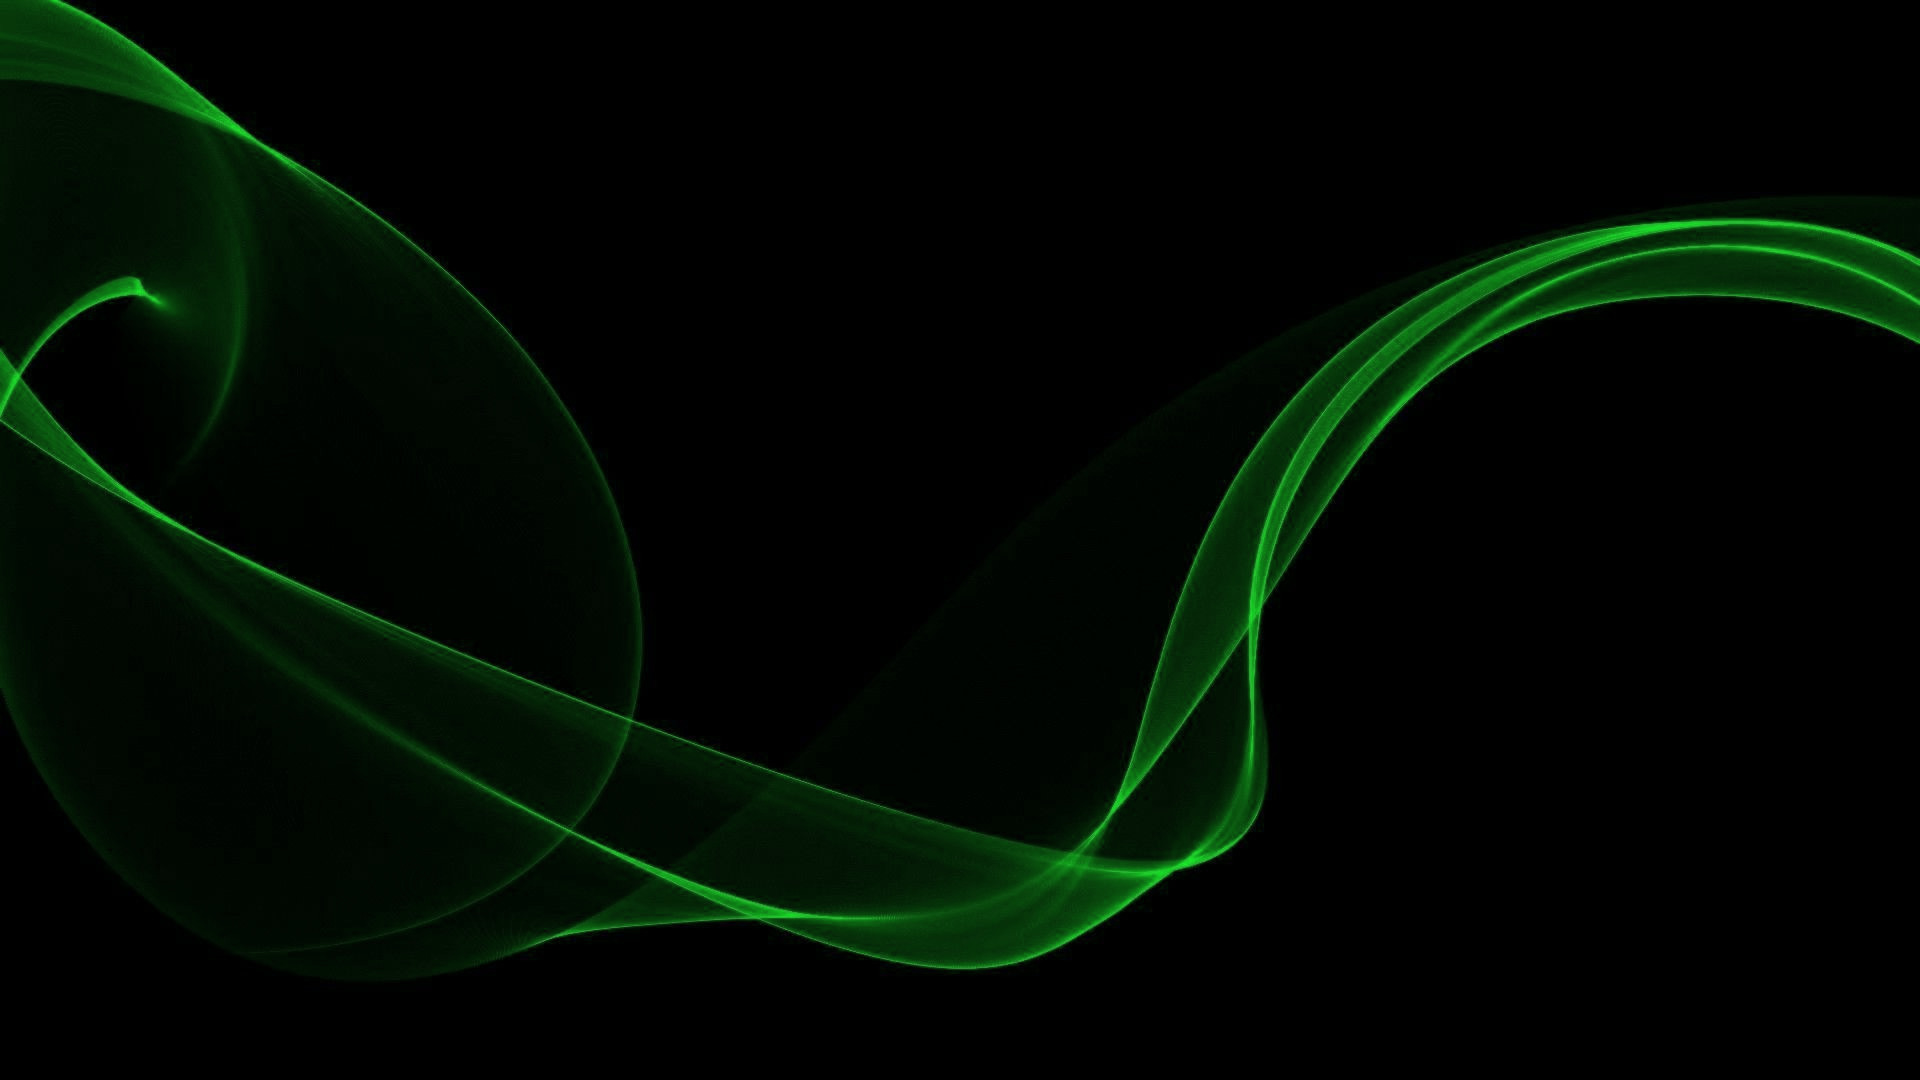
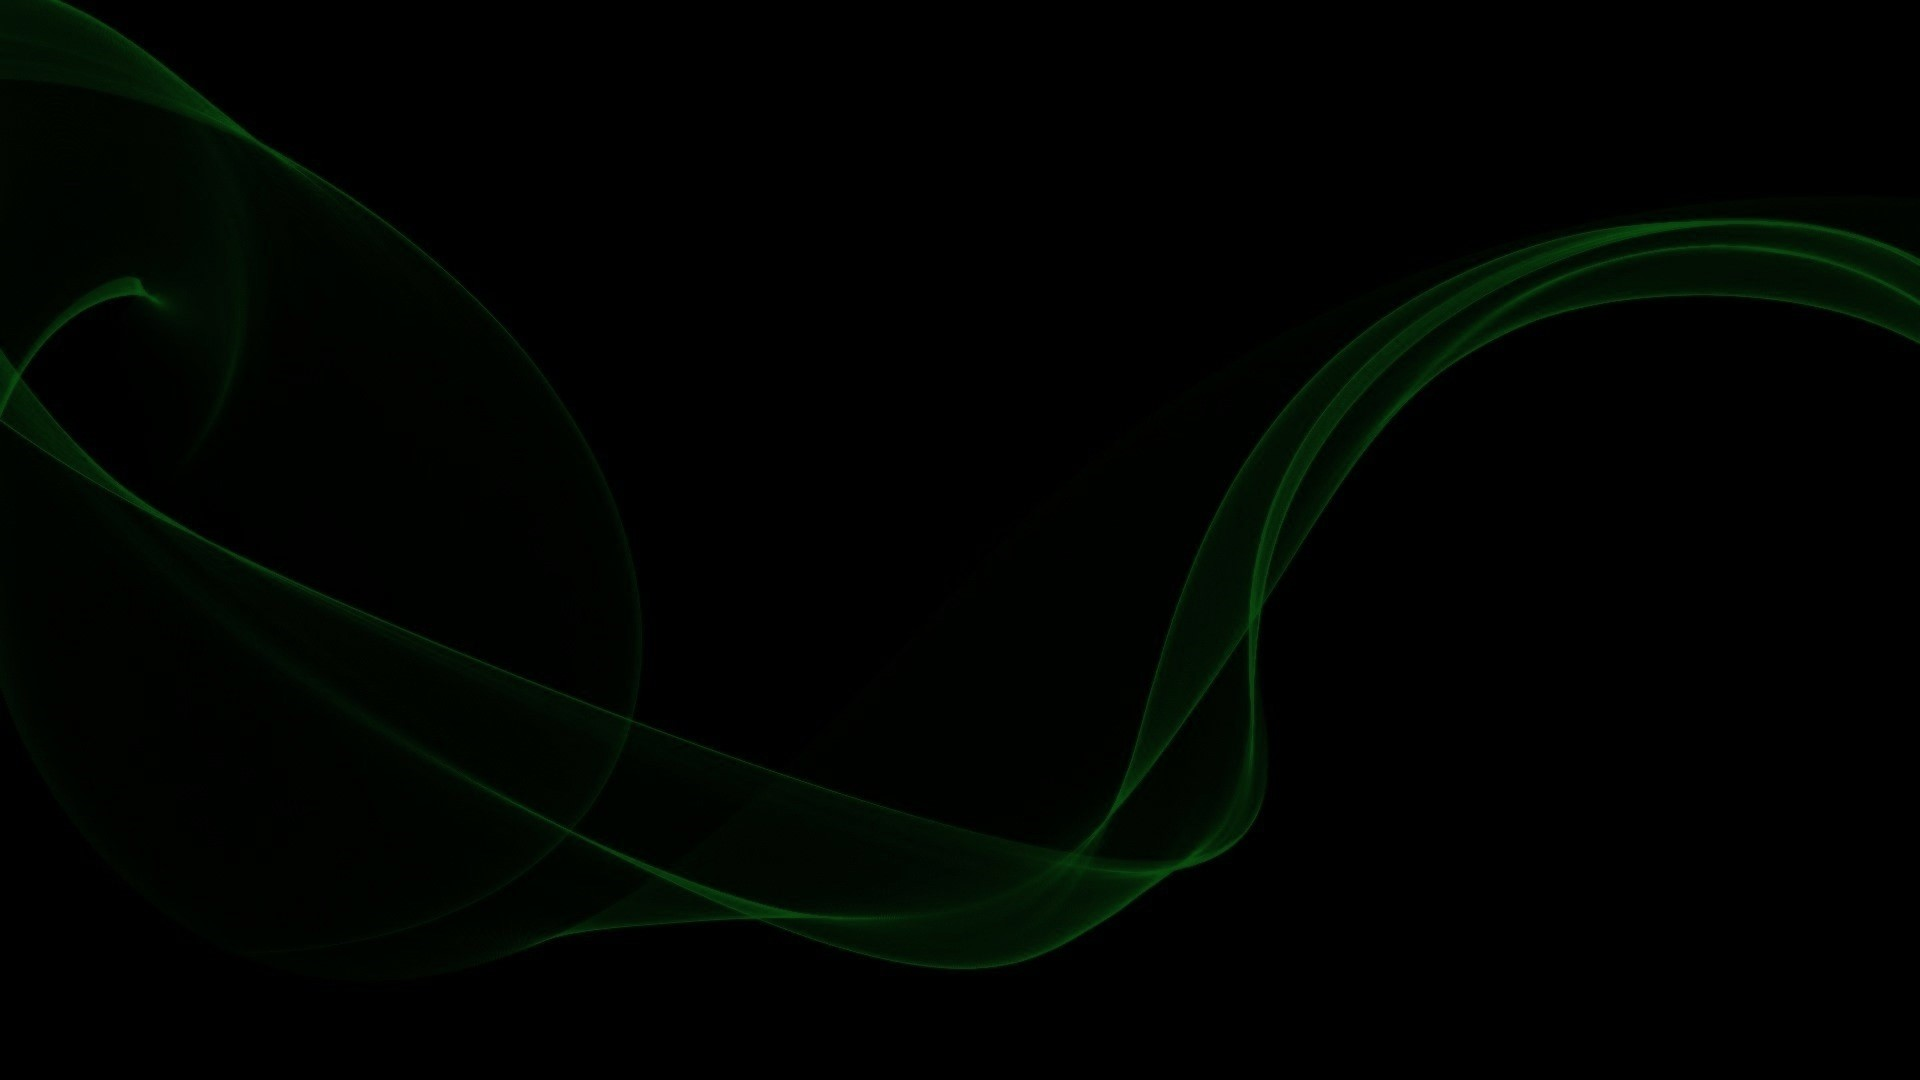
modified In Memory POS

diff --git a/assignments/JS/SPA/index.html b/assignments/JS/SPA/index.html
@@ -12,7 +12,7 @@
 
 
 </head>
-<body style="background: linear-gradient(180deg, #030E00, #010600); height: 100vh;">
+<body style="background: url(assests/imgonline-com-ua-ReplaceColor-LlnI7ILIDhL9E7O.jpg)  center; background-size :cover; height: 100vh;">
 <header>
     <nav class="navbar bg-body-tertiary p-0 z-3" >
         <div class="container-fluid position-fixed top-0 p-0 " style="background-color: #252525; height: 60px;" >
@@ -407,9 +407,9 @@
                             <div class="position-relative" style="width: 100%; height: 10%; background-color: #252525" >
                                 <h1 class="text-center  fs-5 top-50 start-50 translate-middle position-absolute" style="color: #019D30">Item Select</h1>
                             </div>
-                            <form class="container position-relative " style="width: 100%; height: 90%;">
-                                <div class="row mt-4 justify-content-center p-2 mt-1 " style="height: calc(100%/5);">
-                                    <div class="col-6">
+                            <form class="container position-relative " style="width: 100%; height: 80%;">
+                                <div class="row mt-3 mb-4 justify-content-center p-2 mt-1 " style="height: calc(100%/5);">
+                                    <div class="col-6 ">
                                         <input id="itemName"  class="input form-control text-white e ms-4 bg-transparent border-0 text-white-50"  value="Item Name : " style="height: 90%; width:90%; background-color: #252525;  ">
                                     </div>
                                     <div class="col-6">
@@ -420,7 +420,7 @@
                                         </select>
                                     </div>
                                 </div>
-                                <div class="row p-2 justify-content-end  " style="height: calc(100%/5);">
+                                <div class="row p-2 justify-content-end mb-3  " style="height: calc(100%/5);">
                                     <div class="col  ">
                                         <input id="itemPrice" class="input form-control text-white bg-transparent border-0 text-white-50 ms-4"  value="Item Price : " style="height: 95%; width: 80%; background-color: #252525; ">
                                     </div>
@@ -429,7 +429,7 @@
                                     </div>
                                 </div>
                                 <div class="row row-cols-1 p-2 " style="height: calc(100%/5);">
-                                    <input id="orderQuantity"  class="input form-control text-white ms-5 "  placeholder="Order Quantity" style="height: 90%; width: 80%; background-color: #252525; ">
+                                    <input id="orderQuantity" class="input form-control text-white ms-5 "  placeholder="Order Quantity" style="height: 100%; width: 80%; background-color: #252525; ">
                                     <p id="orderQtyPara" class="text-danger-emphasis text-start ms-5" style="width: 70%;"></p>
                                 </div>
                                 <div class="row row-cols-1 p-2  justify-content-center mt-3" style="height: calc(100%/5);">
@@ -484,14 +484,14 @@
                             </div>
                             <div class="row " style="height: calc(100%/4);">
                                 <div class="col p-3 ms-5">
-                                    <input  class="input form-control text-white p-2 "  placeholder="Cash" style="height: 100%; width: 80%; background-color: #252525; ">
+                                    <input id="cash" type="number" class="input form-control text-white p-2 " min="0" placeholder="Cash" style="height: 100%; width: 80%; background-color: #252525; ">
                                 </div>
                                 <div class="col p-3 ms-2">
-                                    <input  class="input form-control text-white p-2"  placeholder="Discount (%)" style="height: 100%; width: 80%; background-color: #252525; ">
+                                    <input id="discount" type="number" class="input form-control text-white p-2" min="0" max="100" placeholder="Discount (%)" style="height: 100%; width: 80%; background-color: #252525; ">
                                 </div>
                             </div>
                             <div class="row-cols-1 p-1 ms-5" style="height: calc(100%/4);">
-                                <input  class="input form-control text-white bg-transparent border-0" disabled="true"  placeholder="Balance : 0.00" style="height: 78%; width:87%; background-color: #252525;  ">
+                                <input id="balance" class="input form-control text-white bg-transparent border-0 fs-4" disabled="true"  placeholder="Balance : 0" style="height: 78%; width:87%; background-color: #252525;  ">
                             </div>
                             <div class="row-cols-1 justify-content-center" style="height: calc(100%/4); ">
                                 <button type="submit" class="btn btn-outline-success " style="width: 45%;" id="btn7"><img src="../../CSS_Framework/POS/assets/Screenshot__550_-removebg-preview.png" alt="Logo" width="25vw" class="opacity-50 me-2">Place Order </button>

diff --git a/assignments/JS/SPA/controller/OrderController.js b/assignments/JS/SPA/controller/OrderController.js
@@ -14,6 +14,8 @@ let totalTxt = $('#total-text').text().split("Total : ");
 let subTotalTxt = $('#subTotal-text');
 let total = totalTxt[1].split(".");
 let total1 = parseInt(total);
+let cash = $('#cash');
+let discount = $('#discount');
 
 
 setCusID();
@@ -123,7 +125,7 @@ deleteDetail();
 function deleteDetail() {
     let btnDelete = $('.orderDelete');
     btnDelete.on("mouseover", function (){
-        $(this).css("cursor", "pointer");}
+        $(this).css("cursor", "pointer")}
     )
 
     btnDelete.click(function () {
@@ -137,7 +139,30 @@ function deleteDetail() {
 
 function calcTotal(price, qty) {
     let tot = price*qty;
-    total1 += tot;
-    $('#total-text').text(`Total : ${total1}.00`);
-    $('#subTotal-text').text(`Sub Total : ${total1}.00`);
+    total1 += tot.toFixed(2);
+    $('#total-text').text(`Total : ${total1}`);
+    $('#subTotal-text').text(`Sub Total : ${total1}`);
 }
+
+cash.change(function (){
+    let balance = (parseInt( cash.val()) - total1).toFixed(2);
+    $('#balance').val(`Balance : ${balance}`);
+})
+
+cash.keyup(function (){
+    let balance = (parseInt( cash.val()) - total1).toFixed(2);
+    $('#balance').val(`Balance : ${balance}`);
+})
+
+discount.change(function (){
+    let dis = total1 - ((total1*parseInt(discount.val()))/100).toFixed(2);
+    alert(dis)
+    // let dis1 = dis.split(".");
+    // $('#subTotal-text').text(`Sub Total : ${dis1[0]}.00`);
+})
+
+discount.keyup(function (){
+    let dis = total1 - ((total1*parseInt(discount.val()))/100).toFixed(2);
+    // let dis1 = dis.split(".");
+    // $('#subTotal-text').text(`Sub Total : ${dis1[0]}.00`);
+})

diff --git a/assignments/JS/SPA/controller/DashboardController.js b/assignments/JS/SPA/controller/DashboardController.js
@@ -110,7 +110,7 @@ window.addEventListener("load", function(event) {
 
 function setDate() {
     let currentDate = new Date();
-    let formattedDate = currentDate.getDate() + '/' + currentDate.getMonth() + '/' + currentDate.getFullYear();
+    let formattedDate = currentDate.getDate() + '/' + (parseInt(currentDate.getMonth())+1) + '/' + currentDate.getFullYear();
     $('#currDate').text(`Date : ${formattedDate}`);
 }
 

diff --git a/assignments/JS/SPA/assests/css/index.css b/assignments/JS/SPA/assests/css/index.css
@@ -1,3 +1,10 @@
+body{
+
+
+    /*background-size :contain;*/
+    /*background: url("../imgonline-com-ua-ReplaceColor-LlnI7ILIDhL9E7O.jpg") no-repeat center;*/
+    /*background-color: black;*/
+}
 
 .input::placeholder, .select::placeholder, .search::placeholder{
     color: #919191;
